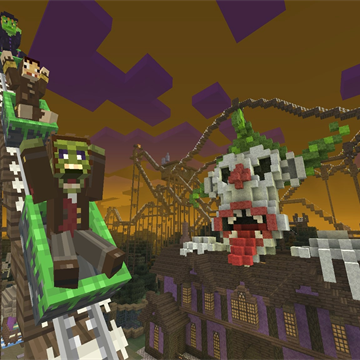
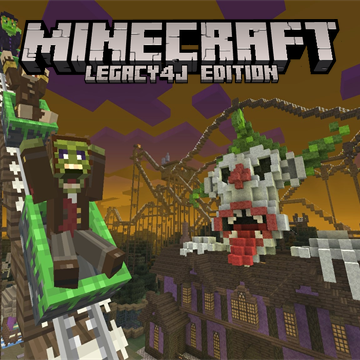
update more

Changed region(s): [[0.0306, 0.0306, 0.9472, 0.2444]]

diff --git a/scripts/add_preview_logo.py b/scripts/add_preview_logo.py
@@ -10,7 +10,7 @@ def repo_root() -> Path:
 
 
 def default_logo_path() -> Path:
-    return repo_root() / "resources" / "bundle preview image template" / "header.png"
+    return repo_root() / "resources" / "preview logos" / "header.png"
 
 
 def resolve_path(value: str, base: Path) -> Path:
